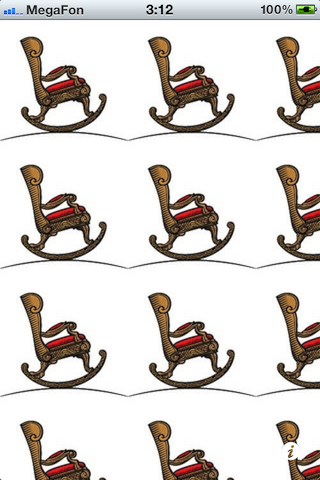
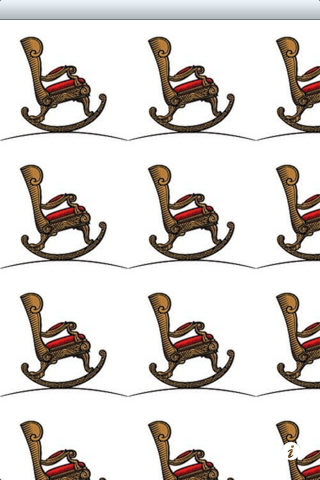
Cleared status bar in default pages. Got rid of some leaks. Tuned code. Added image opening in background.

Changed region(s): [[0.0, 0.0, 0.2812, 0.0312], [0.8125, 0.0, 1.0, 0.0312], [0.4375, 0.0, 0.5625, 0.0312]]

diff --git a/TilesForYandex/ZBMainViewController.m b/TilesForYandex/ZBMainViewController.m
@@ -9,21 +9,20 @@
 #define kTileSize	128
 #define kTileNum	100
 
-static NSString* separator = @"_";
-
 #import "ZBMainViewController.h"
 #import "TilesCache.h"
 #import "NSString+ImageLoadingSignatures.h"
+
 
 @interface ZBMainViewController()
 
 @property (nonatomic, retain)	NSMutableSet *		loadedImages;
 @property (nonatomic, retain)	ZBTileScrollView *	tileScrollView;
 @property (nonatomic, retain)	DownloadManager *	downloadManager;
+@property (nonatomic, retain)	NSOperationQueue*	operationQueue;
 @property (nonatomic)			ZBCacheRef			cache;
 
 @end
-
 
 
 @implementation ZBMainViewController
@@ -31,6 +30,7 @@ static NSString* separator = @"_";
 @synthesize loadedImages	= loadedImages_;
 @synthesize tileScrollView	= tileScrollView_;
 @synthesize downloadManager = downloadManager_;
+@synthesize operationQueue	= operationQueue_;
 @synthesize cache			= cache_;
 
 #pragma mark - Lazy objects
@@ -63,9 +63,19 @@ static NSString* separator = @"_";
 	{
 		downloadManager_ = [[DownloadManager alloc] init];
 		downloadManager_.networkActivityDelegate = self;
-		downloadManager_.numberOfSimultaneousLoadings = 7;
+		downloadManager_.numberOfSimultaneousLoadings = 4;
 	}
 	return downloadManager_;
+}
+
+- (NSOperationQueue *) operationQueue
+{
+	if (!operationQueue_)
+	{
+		operationQueue_ = [[NSOperationQueue alloc] init];
+		operationQueue_.maxConcurrentOperationCount = 1;	// TODO: tweak this with tile profiler
+	}
+	return operationQueue_;
 }
 
 - (ZBCacheRef) cache
@@ -92,12 +102,19 @@ static NSString* separator = @"_";
 {
     [super didReceiveMemoryWarning];
 
+	if (operationQueue_ && ![operationQueue_ operationCount]) 
+	{
+		self.operationQueue = nil;
+	}
+	
 	self.cache = nil;
 }
 
 - (void) dealloc 
 {
-	self.cache = nil;
+	self.cache				= nil;
+	self.downloadManager	= nil;
+	self.operationQueue		= nil;
 	
 	[loadedImages_	 release];
 	[tileScrollView_ release];
@@ -147,7 +164,8 @@ static NSString* separator = @"_";
 
 - (IBAction) showInfo:(id)sender
 {    
-    ZBFlipsideViewController *controller = [[[ZBFlipsideViewController alloc] initWithNibName:@"ZBFlipsideViewController" bundle:nil] autorelease];
+    ZBFlipsideViewController *controller = [[[ZBFlipsideViewController alloc] initWithNibName:@"ZBFlipsideViewController" 
+																					   bundle:nil] autorelease];
     controller.delegate = self;
     controller.modalTransitionStyle = UIModalTransitionStyleFlipHorizontal;
     [self presentModalViewController:controller animated:YES];
@@ -157,44 +175,74 @@ static NSString* separator = @"_";
 
 - (UIImage *) imageForTileAtHorIndex:(NSUInteger)horIndex verIndex:(NSUInteger)verIndex
 {
-	NSString* imageSignature = [NSString stringWithFormat:@"%.4d%@%.4d", horIndex, separator, verIndex];
-
-	UIImage	*image = nil;
+	NSString* imageSignature = [NSString signatureForHorIndex:horIndex verIndex:verIndex];
 	
 	char file[ZBFilePathLength] = { 0 };
-	int fileExists = ZBCacheGetFileForSignature(self.cache, [imageSignature UTF8String], file);
+	int fileExists = ZBCacheGetFileForSignature( self.cache, [imageSignature UTF8String], file );
 	if (fileExists) 
 	{ 
 		NSString *filePath = [NSString stringWithCString:file encoding:NSUTF8StringEncoding];
-		image = [UIImage imageWithContentsOfFile:filePath];
+		
+		NSDictionary *info = [NSDictionary dictionaryWithObjectsAndKeys:imageSignature, kSignatureKey,
+																		filePath,		kCachedPathKey, nil];
+		
+		NSInvocationOperation *imageOpening = [[NSInvocationOperation alloc] initWithTarget:self 
+																				   selector:@selector(openImage:)
+																					 object:info];
+		
+		[self.operationQueue addOperation:imageOpening];
+		[imageOpening release];
 	}
-		
-		// If file is corrupted it should be deleted and a new one downloaded
-	if (fileExists && !image) { ZBCacheRemoveFileForSignature(self.cache, [imageSignature UTF8String]); }
-		
-	if (!image)
+	else 
 	{
-		[[NSRunLoop currentRunLoop] performSelector:@selector(downloadImageForSignature:) 
-											 target:self.downloadManager 
-										   argument:imageSignature
-											  order:0 
-											  modes:[NSArray arrayWithObject:NSDefaultRunLoopMode]];
-//		[self.downloadManager downloadImageForSignature:imageSignature];
+		[self.downloadManager downloadImageForSignature:imageSignature];		
+	}
+	
+	return [UIImage imageNamed:@"placeholder.png"];
+}
 
-		return [UIImage imageNamed:@"placeholder.png"];
-	}
-	else
+- (void) openImage:(NSDictionary *)userInfo
+{
+	assert( ![NSThread isMainThread] );
+	assert( userInfo );
+	
+	NSString *signature = [userInfo objectForKey:kSignatureKey];
+	NSString *filePath =  [userInfo objectForKey:kCachedPathKey];
+	
+	assert( signature );
+	assert( filePath );
+	
+	CFURLRef cfURL = CFURLCreateWithFileSystemPath( NULL, 
+												   ( CFStringRef )filePath,
+												   kCFURLPOSIXPathStyle, 
+												   false );
+	assert( cfURL );
+	
+	CGImageRef cgImage = NULL;
+	
+	CGDataProviderRef provider = CGDataProviderCreateWithURL( cfURL );
+	if (provider)
 	{
-		return image;
+		cgImage = CGImageCreateWithPNGDataProvider( provider, NULL, NO, kCGRenderingIntentDefault );
+		
+		CGDataProviderRelease( provider );
 	}
+	CFRelease( cfURL );
+
+	
+	NSDictionary *info = [NSDictionary dictionaryWithObjectsAndKeys:(id)cgImage,	kImageKey,
+																		signature,	kSignatureKey, nil];
+	CGImageRelease(cgImage);
+	
+	[self performSelectorOnMainThread:@selector(imageOpeningFinished:) withObject:info waitUntilDone:NO];
 }
 	 
 - (void) imageLoadingFinished:(NSNotification *)note
 {
 	NSDictionary * imageInfo = note.userInfo;
 
-	NSString *signature = [imageInfo objectForKey:@"signature"];
-	NSString *path		= [imageInfo objectForKey:@"path"];
+	NSString *signature = [imageInfo objectForKey:kSignatureKey];
+	NSString *path		= [imageInfo objectForKey:kTmpPathKey];
 
 	if (!path) { return; } // Image was not loaded because of cancelling or error  
 	
@@ -205,17 +253,34 @@ static NSString* separator = @"_";
 		
 	if (!tileScrollView_) { return; }
 
-		// We use "hhhhsvvvv" format for signature
-	NSUInteger horIndex = [[signature substringToIndex:4]	integerValue];
-	NSUInteger verIndex = [[signature substringFromIndex:5] integerValue];
+	NSUInteger horIndex, verIndex;
+	ZBGetIndexesFromSignature( signature, &horIndex, &verIndex );
 	
 	[self.tileScrollView reloadImageForTileAtHorIndex:horIndex verIndex:verIndex];
 }
 
+- (void) imageOpeningFinished:(NSDictionary *)userInfo
+{
+	assert( userInfo );
+	
+	CGImageRef	image =		(CGImageRef)[userInfo objectForKey:kImageKey];
+	NSString *	signature =				[userInfo objectForKey:kSignatureKey];
+	
+	assert( signature );
+
+		// If file is corrupted it should be deleted and a new one downloaded
+	if (!image) { ZBCacheRemoveFileForSignature(self.cache, [signature UTF8String]); }
+	
+	NSUInteger horIndex, verIndex;
+	ZBGetIndexesFromSignature( signature, &horIndex, &verIndex );
+	
+	[self.tileScrollView setImage:image forTileAtHorIndex:horIndex verIndex:verIndex];
+}
+
 - (void) imageNoLongerNeededForTileAtHorIndex:(NSUInteger)horIndex verIndex:(NSUInteger)verIndex
 {
-	NSString* imageSignature = [NSString stringWithFormat:@"%.4d%@%.4d", horIndex, separator, verIndex];
-
+	NSString* imageSignature = [NSString signatureForHorIndex:horIndex verIndex:verIndex];
+	
 	[self.downloadManager cancelDownloadingImageForSignature:imageSignature];
 }
 

diff --git a/TilesForYandex/NSString+ImageLoadingSignatures.m b/TilesForYandex/NSString+ImageLoadingSignatures.m
@@ -10,14 +10,20 @@
 
 NSString* const ZBTileImageExtension = @"png";
 
+void ZBGetIndexesFromSignature( NSString *signature, NSUInteger* horIndex, NSUInteger* verIndex)
+{
+		// We hardly expect the string to conform to signature form "hhhhsvvvv", where
+		// 'h' and 'v' are horisontal and vertical integer indexes and 's' is a separator
+	*horIndex = [[signature substringToIndex:4]		integerValue];
+	*verIndex = [[signature substringFromIndex:5]	integerValue];
+}
+
 @implementation NSString (TilesSignatures)
 
 - (NSString *) URLforImageFromSignature
 {
-		// We hardly expect the string to conform to signature form "hhhhsvvvv", where
-		// 'h' and 'v' are horisontal and vertical integer indexes and 's' is a separator
-	NSInteger horIndex = [[self substringToIndex:4]		integerValue];
-	NSInteger verIndex = [[self substringFromIndex:5]	integerValue];
+	NSUInteger horIndex, verIndex;
+	ZBGetIndexesFromSignature(self, &horIndex, &verIndex);
 	
 	int tile = (horIndex + rand_r((unsigned *)&verIndex)) % 12;
 	
@@ -25,6 +31,11 @@ NSString* const ZBTileImageExtension = @"png";
 	
 	NSString *result = [NSString stringWithFormat:@"http://dl.dropbox.com/u/19190161/Map_%@_optimized/Tile_%.2d.%@", ext, tile, ext];
 	return result;
+}
+
++ (NSString *) signatureForHorIndex:(NSUInteger)horIndex verIndex:(NSUInteger)verIndex
+{
+	return [NSString stringWithFormat:@"%.4d_%.4d", horIndex, verIndex];
 }
 
 @end

diff --git a/TilesForYandex/ZBTileScrollView.h b/TilesForYandex/ZBTileScrollView.h
@@ -10,6 +10,7 @@
 
 @class ZBTileScrollView;
 
+
 @protocol ZBTileScrollViewDataSource <NSObject>
 
 @required
@@ -17,6 +18,7 @@
 - (void)	 imageNoLongerNeededForTileAtHorIndex:	(NSUInteger)horIndex	verIndex:(NSUInteger)verIndex;
 
 @end
+
 
 	// Struct to work with indexes of visible tiles
 typedef struct VisibleIndexes
@@ -26,7 +28,6 @@ typedef struct VisibleIndexes
 	NSUInteger right;
 	NSUInteger down;
 } VisibleIndexes_t;
-
 
 	
 	// Tile scroll view that has a data source to ask for tile images
@@ -44,10 +45,11 @@ typedef struct VisibleIndexes
 @property (nonatomic, readonly) NSUInteger	horTilesNum;
 @property (nonatomic, readonly) NSUInteger	verTilesNum;
 
-																	// ( horNum x verNum ) is size of "map" in tiles
+																	// ( horNum x verNum ) is the size of the "map" in tiles
 - (id)		initWithFrame:(CGRect)frame horizontalTilesNum:(NSUInteger)horNum verticalTilesNum:(NSUInteger)verNum;
 
-- (void)	reloadImageForTileAtHorIndex:(NSUInteger)horIndex verIndex:(NSUInteger)verIndex;
+- (void)	setImage:(CGImageRef)image forTileAtHorIndex:(NSUInteger)horIndex verIndex:(NSUInteger)verIndex; 
+- (void)	reloadImageForTileAtHorIndex:				 (NSUInteger)horIndex verIndex:(NSUInteger)verIndex;
 - (void)	reloadData;
 
 

diff --git a/TilesForYandex/ZBTileScrollView.m b/TilesForYandex/ZBTileScrollView.m
@@ -228,6 +228,18 @@
 	return tile;
 }
 
+- (void) setImage:(CGImageRef)image forTileAtHorIndex:(NSUInteger)horIndex verIndex:(NSUInteger)verIndex
+{
+	if (horIndex >= horTilesNum_) { return; } // Bounds check
+	if (verIndex >= verTilesNum_) { return; }
+	
+	CALayer * tile = [[visibleTiles_ objectAtIndex:horIndex] objectAtIndex:verIndex];
+	
+	if (IsStub(tile)) { return; }												// If tile is not visible return
+	
+	tile.contents = (id)image;	// else set appropriate image
+}
+
 - (void) reloadImageForTileAtHorIndex:(NSUInteger)horIndex verIndex:(NSUInteger)verIndex
 {
 	if (horIndex >= horTilesNum_) { return; } // Bounds check

diff --git a/TilesForYandex/DownloadManager.m b/TilesForYandex/DownloadManager.m
@@ -210,8 +210,8 @@ NSString* const ZBDownloadComplete = @"com.zababako.yandextiles.downloadFinished
 {
 	if ([NSThread isMainThread])
 	{
-		NSDictionary *userInfo = [NSDictionary dictionaryWithObjectsAndKeys:[item signature],				@"signature", 
-																			[item pathToDownloadedFile],	@"path",		nil];
+		NSDictionary *userInfo = [NSDictionary dictionaryWithObjectsAndKeys:[item signature],				kSignatureKey, 
+																			[item pathToDownloadedFile],	kTmpPathKey,	nil];
 		
 		[[NSNotificationCenter defaultCenter] postNotificationName:ZBDownloadComplete object:self userInfo:userInfo];
 		

diff --git a/TilesForYandex/NSString+ImageLoadingSignatures.h b/TilesForYandex/NSString+ImageLoadingSignatures.h
@@ -6,10 +6,18 @@
 //  Copyright (c) 2012 Zababako. All rights reserved.
 //
 
+#define kSignatureKey	@"signature"
+#define kTmpPathKey		@"tmpPath"
+#define kCachedPathKey	@"cachedPath"
+#define kImageKey		@"imageRef"
+
 extern NSString* const ZBTileImageExtension;
+
+void ZBGetIndexesFromSignature( NSString *signature, NSUInteger* horIndex, NSUInteger* verIndex);
 
 @interface NSString (TilesSignatures)
 
++ (NSString *) signatureForHorIndex:(NSUInteger)horIndex verIndex:(NSUInteger)verIndex;
 - (NSString *) URLforImageFromSignature;
 
 @end

diff --git a/TilesForYandex/DownloadItem.m b/TilesForYandex/DownloadItem.m
@@ -86,6 +86,7 @@
 	
 	self.connection = [[NSURLConnection alloc] initWithRequest:request delegate:self startImmediately:YES];
 	assert( connection_ );
+	[connection_ release];
 		
 	self.stream = [NSOutputStream outputStreamToFileAtPath:self.path append:NO];
 	[self.stream open];
